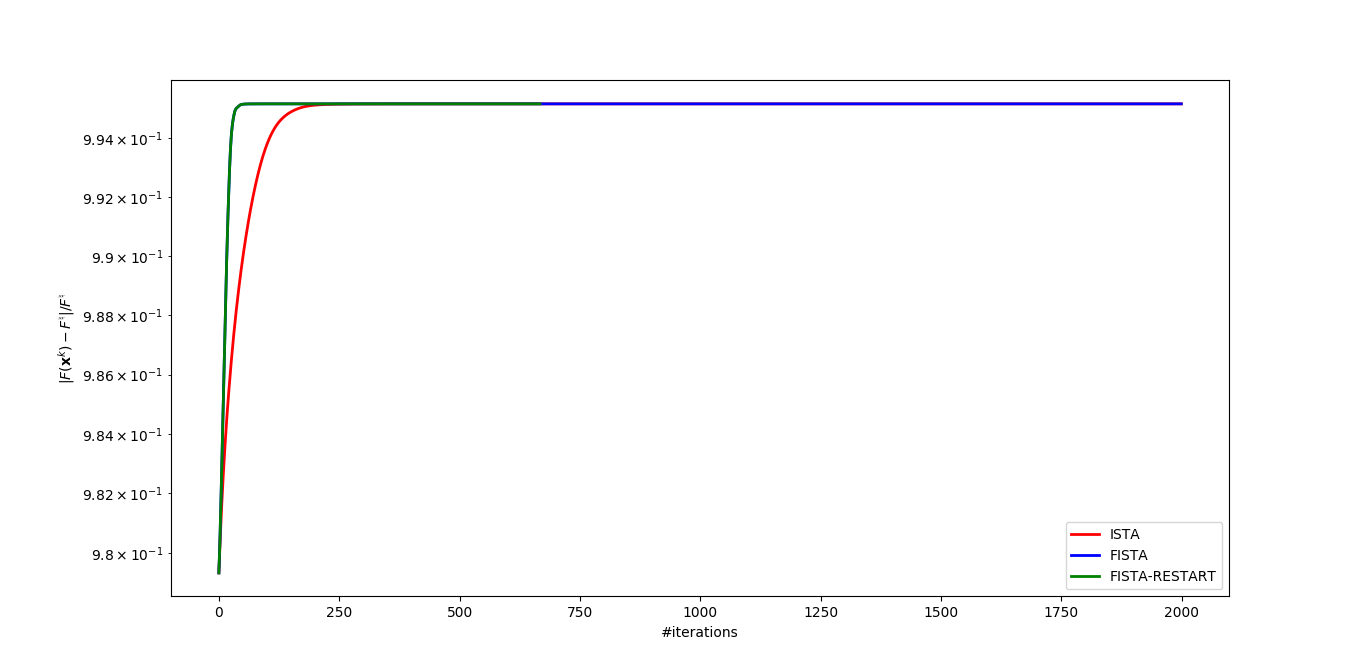
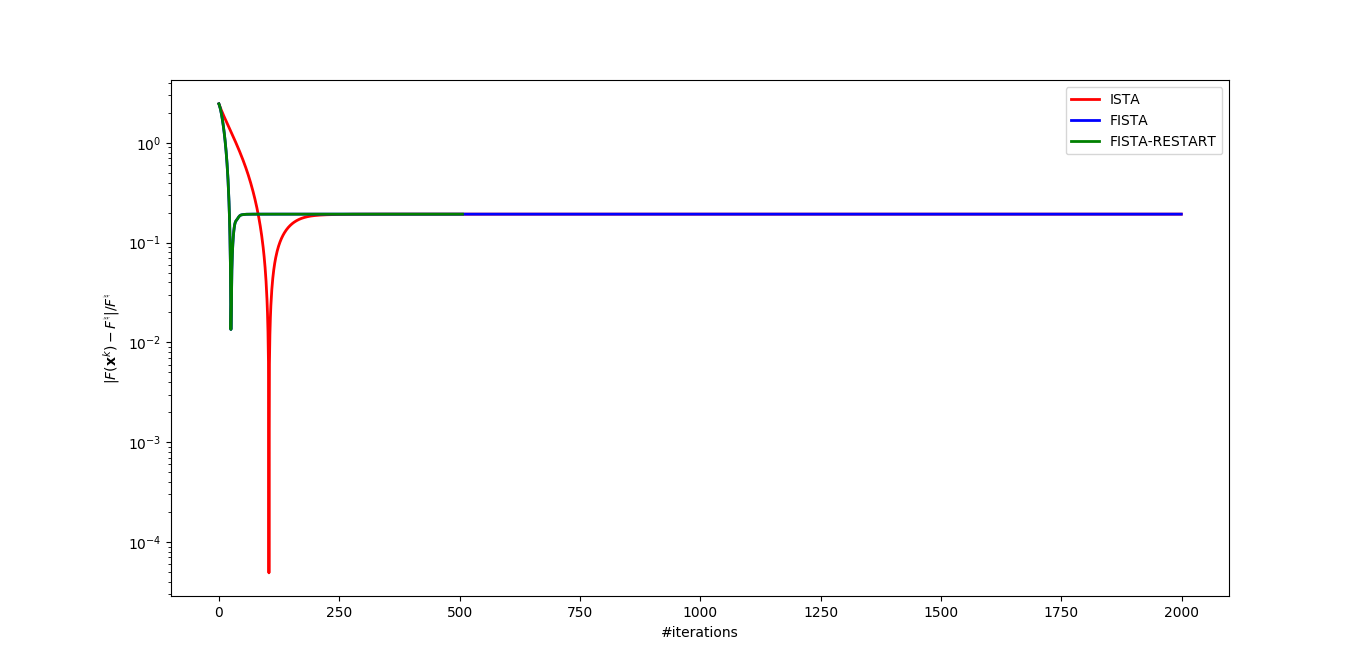
Updates from Overleaf

diff --git a/3-images/report/report.tex b/3-images/report/report.tex
@@ -313,19 +313,31 @@ On the other hand, one can understand the Logistic Regression formulation as a o
     \end{figure}
     
     
-    \item When analyzing the convergence for $\ell_1$ regularization, we can see that again the FISTA with restart is the best method among the tested ones. The evolution towards the solution of this problem is depicted in Figure \ref{fig:f_star}. Note that the solution to the problem formulation is not necessarily the same as the original image without missing pixels. Indeed, this can be seen in \ref{fig:f_nat}. Given that $F$ evaluated at the original image is very large and for each iteration we are decreasing the value of $F$, we are moving away. This explains the plot with increasing relative absolute error of Figure \ref{fig:f_nat}.
+    \item When analyzing the convergence for $\ell_1$ regularization for the image in-painting problem, we can see that again the FISTA with restart is the best method among the tested ones. The evolution towards the solution of this problem, the minimization of $F$, is depicted in Figure \ref{fig:f_star}. Note that the solution to the problem formulation is not necessarily the same as the ground-truth image, that is the image without missing pixels. Indeed, this can be seen in \ref{fig:f_nat}. To understand this, recall that the function to minimize in this problem is defined as
+    \begin{align}
+        F(\boldsymbol{\alpha}) := \underbrace{\frac{1}{2}\norm{\bb - P_{\Omega} W^T \boldsymbol{\alpha}}^2_2}_{f_{\ell_1}(\boldsymbol{\alpha})} + \underbrace{\lambda_{\ell_1} \norm{\boldsymbol{\alpha}}_1}_{g_{\ell_1}(\boldsymbol{\alpha})}
+    \end{align}
+    where $\bb = P_{\Omega} \xx^\natural$ and $\boldsymbol{\alpha}$ represents the Wavelet coefficients of the evaluated image. Let $\boldsymbol{\alpha}^\natural$ be the Wavelet transform of the ground-truth image.
+    
+    \begin{align}
+        F(\boldsymbol{\alpha}^\natural) &:= \frac{1}{2}\norm{\bb - P_{\Omega} W^T \boldsymbol{\alpha}^\natural}^2_2 + \lambda_{\ell_1} \norm{\boldsymbol{\alpha}^\natural}_1 := \frac{1}{2}\norm{P_\Omega \xx^\natural - P_{\Omega} W^T W \xx^\natural}^2_2 + \lambda_{\ell_1} \norm{W \xx^\natural}_1 \\
+        &= \lambda_{\ell_1} \norm{W \xx^\natural}_1 
+    \end{align}
+    where the last inequality follows since the Wavelet transform defines an orthonormal basis, i.e. $W^T W= I$.
+    
+    Note that for the ground-truth image, the term $f_{\ell_1}$ is zero, but the regularization term $g_{\ell_1}$ is not. Since we are minimizing the overall $F$, it is possible to obtain a lower objective value than the one with the ground-truth image. This explains the plot with increasing relative absolute error of Figure \ref{fig:f_nat}.
     
     \begin{figure}[H]
         \centering
-        \includegraphics[width=\textwidth]{img/against_f_star.png}
+        \includegraphics[width=.9\textwidth]{img/against_f_star.png}
         \caption{Relative absolute error against $F^*=28.18$}
         \label{fig:f_star}
     \end{figure}
     
     \begin{figure}[H]
         \centering
-        \includegraphics[width=\textwidth]{img/against_f_nat.png}
-        \caption{Relative absolute error against $F^\natural = 5835.05$}
+        \includegraphics[width=.9\textwidth]{img/against_f_nat.png}
+        \caption{Relative absolute error against $F^\natural = 34.92$}
         \label{fig:f_nat}
     \end{figure}
     
